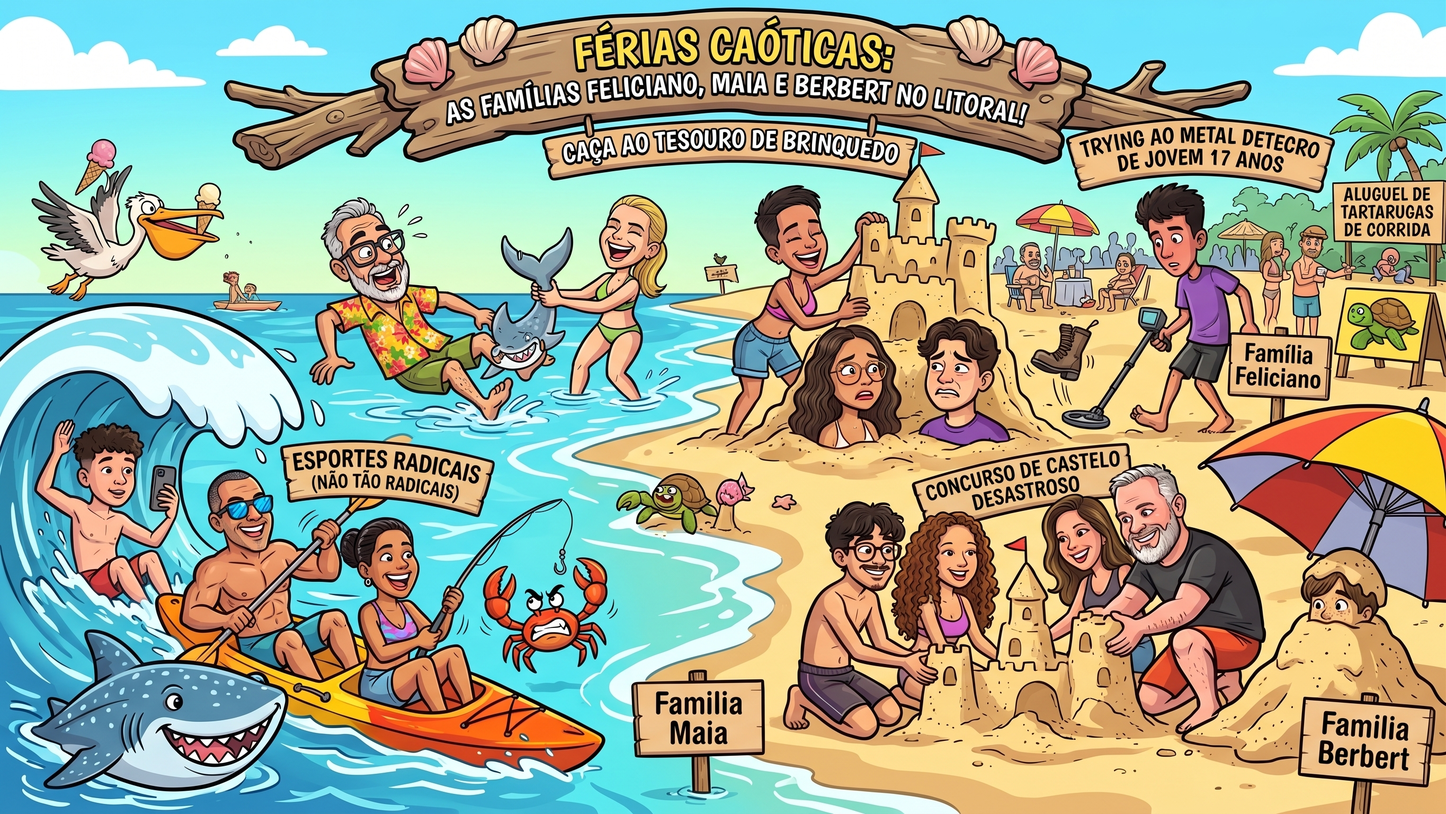
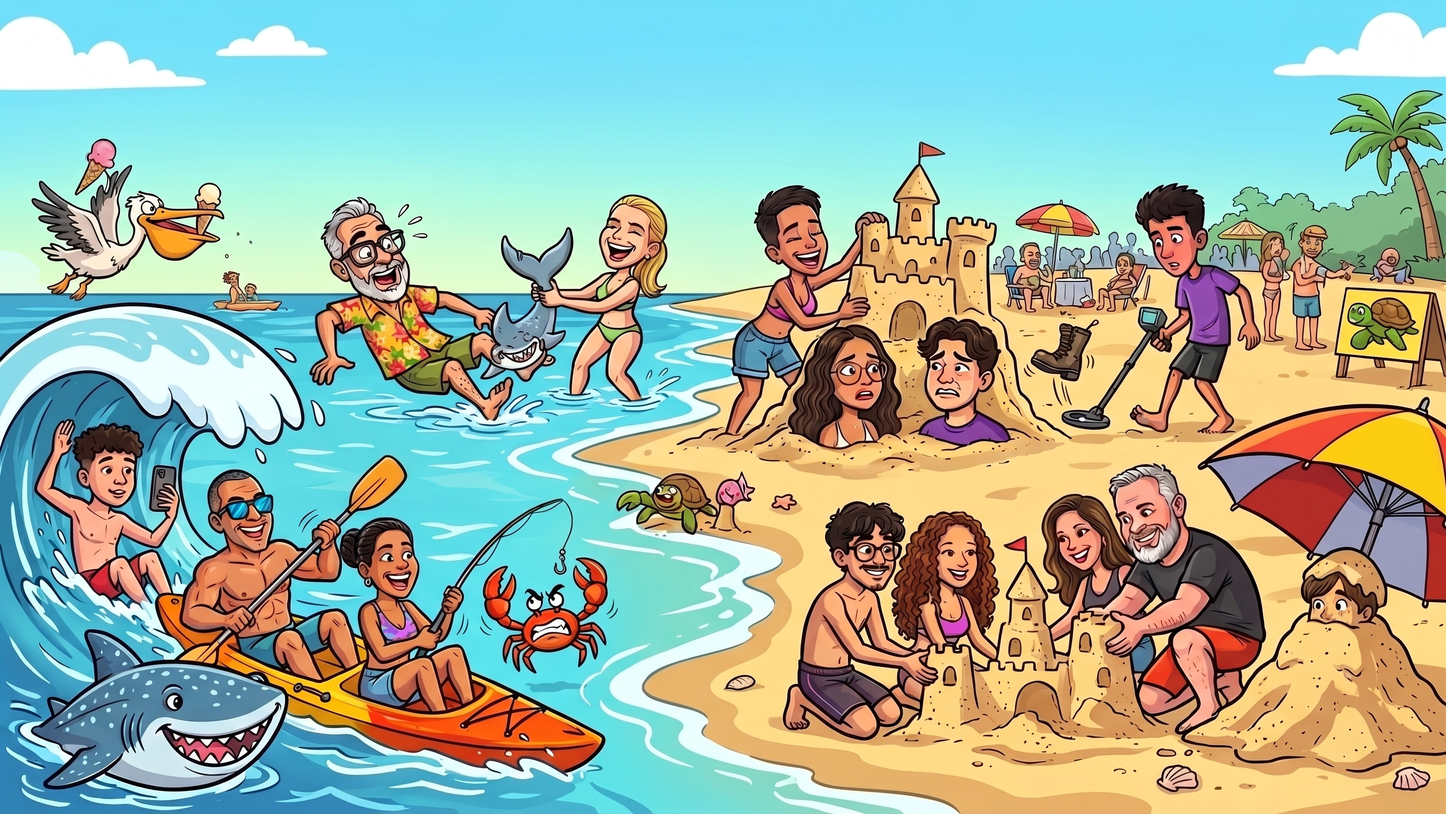
feat: atualiza nova versão de img-topo.jpeg no servidor com cache busting

diff --git a/index.html b/index.html
@@ -1557,7 +1557,7 @@
                     <span>🏖 FÉRIAS CAÓTICAS: AS FAMÍLIAS FELICIANO, MAIA E BERBERT NO LITORAL!</span>
                 </div>
                 
-                <img src="img-topo.jpeg" alt="Férias Caóticas: Famílias Feliciano, Maia e Berbert no Litoral" class="banner-image">
+                <img src="img-topo.jpeg?v=2" alt="Férias Caóticas: Famílias Feliciano, Maia e Berbert no Litoral" class="banner-image">
 
                 <div class="banner-glass-bar">
                     <div class="family-tags">
@@ -1800,7 +1800,7 @@
     <div class="lightbox-modal" id="lightbox-modal" onclick="closeImageLightbox()">
         <button class="modal-close-btn" onclick="closeImageLightbox()" title="Fechar" style="top: 24px; right: 24px;">&times;</button>
         <div class="lightbox-content" onclick="event.stopPropagation()">
-            <img src="img-topo.jpeg" alt="Ilustração Oficial das Famílias Feliciano, Maia e Berbert" class="lightbox-img">
+            <img src="img-topo.jpeg?v=2" alt="Ilustração Oficial das Famílias Feliciano, Maia e Berbert" class="lightbox-img">
             <div class="lightbox-caption">
                 🏖 Férias Caóticas: As Famílias Feliciano, Maia e Berbert no Litoral!
             </div>
